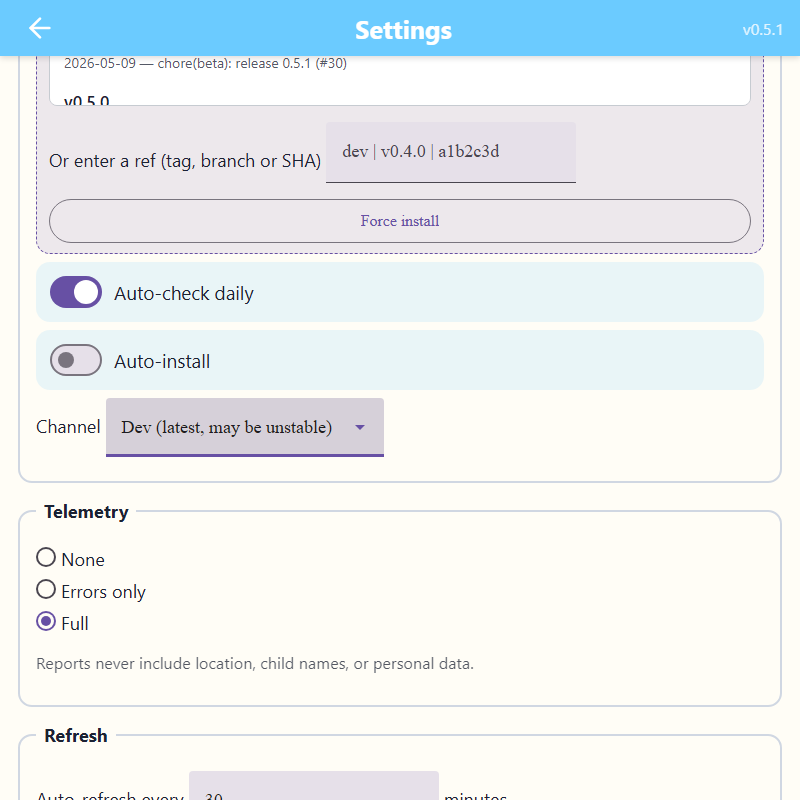
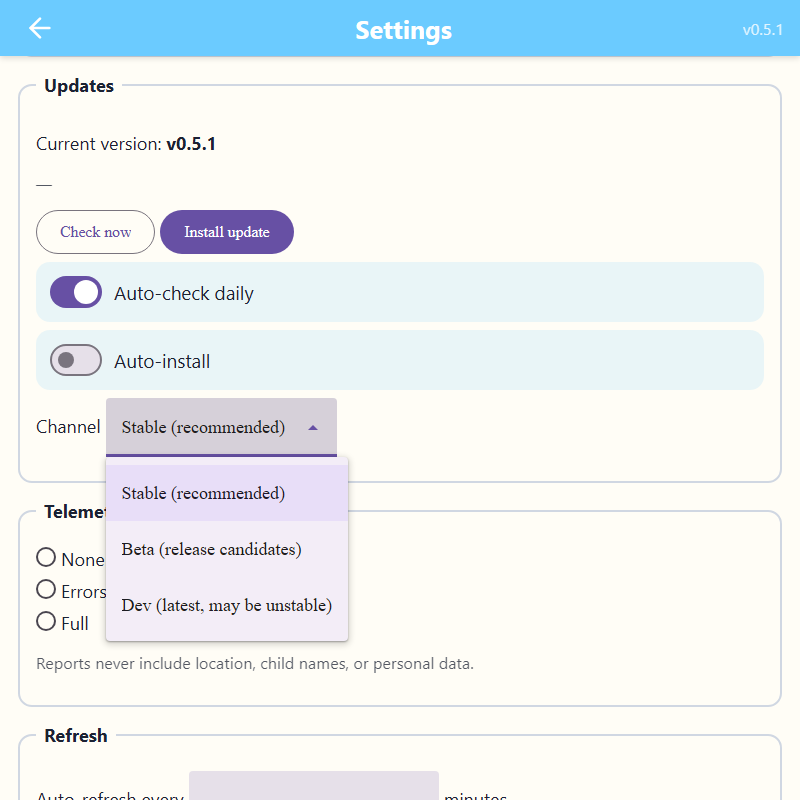
fix(theme): keep proxy id, leave replacement id-less, disable proxy
Combination that satisfies all constraints:
- Proxy keeps id so settings.js's  still resolves to the
  hidden proxy where renderAll/collect read+write .value.
- Replacement has no id (no duplicate-id violation; CSS/Playwright
  target via tag selectors).
- Proxy is disabled so synthesized clicks from Material's internal
  form-associated <select> can't bubble back into Material's outside-
  click detector and close the open menu.
- syncReplacement reads from proxy.value and pushes into replacement.

This finally makes channel/country/framework/colorway/theme dropdowns
stay open AND show the correct selected value.

diff --git a/static/js/ui/enhance.js b/static/js/ui/enhance.js
@@ -45,7 +45,10 @@ function shouldSkipInput(el) {
 }
 
 function copyAttrs(src, dst) {
-  if (src.id) dst.id = src.id;
+  // Skip id intentionally so $('foo') in page-specific JS keeps
+  // resolving to the proxy (where settings.js writes values). The
+  // enhancer's syncReplacement reads from the proxy and pushes into
+  // the replacement, so the replacement doesn't need an id of its own.
   if (src.className) dst.className = src.className;
   if (src.name) dst.name = src.name;
   for (const a of src.attributes) {
@@ -53,24 +56,17 @@ function copyAttrs(src, dst) {
       dst.setAttribute(a.name, a.value);
     }
   }
-  // Strip id from the proxy after copying so $('channel') returns the
-  // themed replacement and not the hidden form-internal select that
-  // existed before enhancement. Other code that needs the proxy can
-  // still find it via [data-ui-original-id].
-  if (src.id) {
-    src.dataset.uiOriginalId = src.id;
-    src.removeAttribute('id');
-  }
 }
 
 function hideProxy(el) {
   el.style.display = 'none';
   el.dataset.uiProxy = '1';
-  // Render the proxy fully inert so no synthesized click/focus on it
-  // can re-enter the active framework's logic. Material's
-  // <md-filled-select> programmatically clicks its internal form-
-  // associated <select>; that bubbled event closes the open menu.
-  // disabled + tabindex=-1 stops the focus-steal cascade entirely.
+  // Render the proxy inert so synthesized clicks/focus on it can't
+  // re-enter the active framework's logic. Material's <md-filled-
+  // select> programmatically clicks its internal form-associated
+  // <select>; that bubbled event was closing the menu we just opened.
+  // We can't strip the id (settings.js still uses $('foo').value to
+  // read the saved value) so we make the proxy form-inert instead.
   if (el.tagName === 'SELECT' || el.tagName === 'INPUT' ||
       el.tagName === 'TEXTAREA') {
     el.disabled = true;

diff --git a/_trace_dropdown.py b/_trace_dropdown.py
@@ -18,9 +18,9 @@ with sync_playwright() as p:
             }, true);
         });
     }""")
-    sel = page.locator('md-filled-select[id=channel]')
+    sel = page.locator('md-filled-select#channel')
     sel.scroll_into_view_if_needed()
-    sel.click()
+    sel.click(force=True)
     page.wait_for_timeout(1200)
     events = page.evaluate('window._events')
     import json